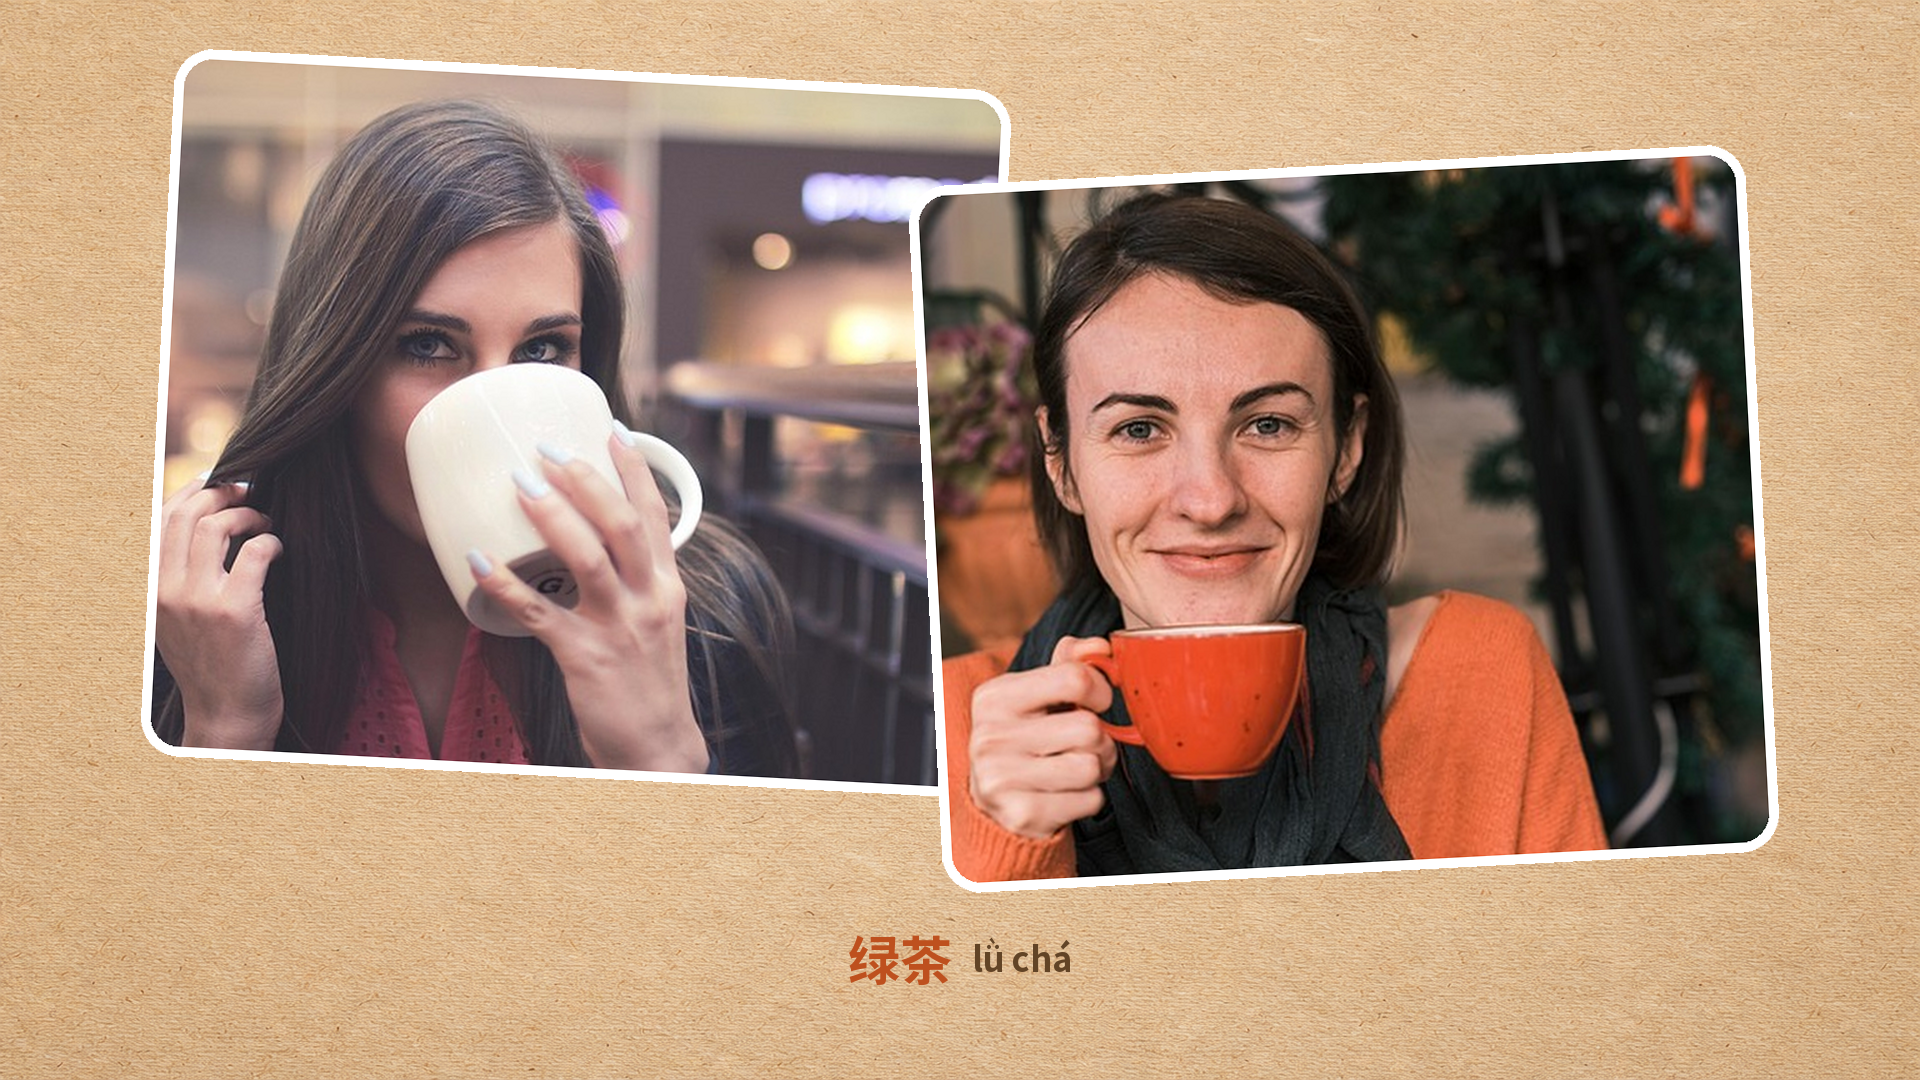
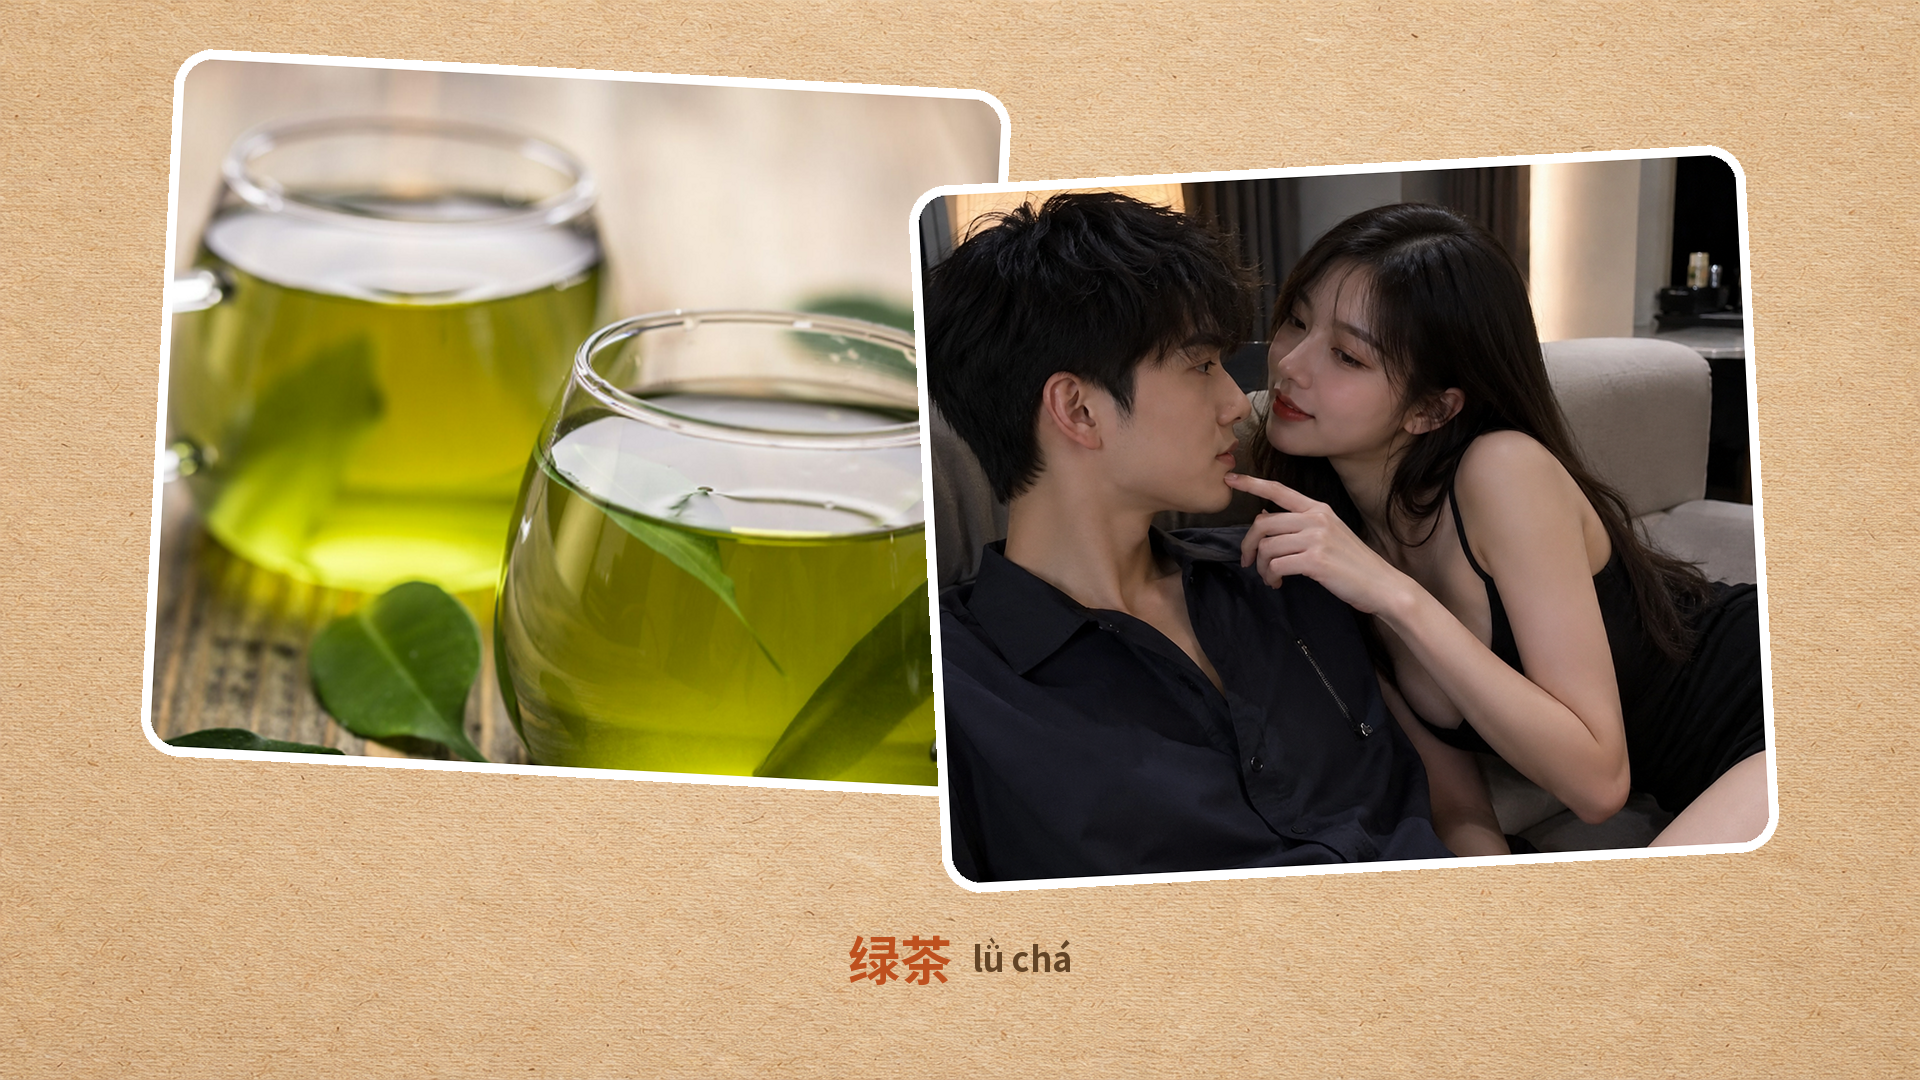
feat(word): ep0002 collage/thumbnail use user-added ref 11(green tea)+12(couple)
- collage_images [1,2] → [11,12]: 본뜻(녹차)+유행어(썸/심기) 이중 의미
- 콜라주 카드·썸네일 재생성

diff --git a/contents/word/card_generator.py b/contents/word/card_generator.py
@@ -626,7 +626,7 @@ EPISODES = [
         "pinyin":  "lǜ chá",
         "desc_en": "sweet but scheming",
         "search_query": "elegant woman drinking tea cafe portrait",
-        "collage_images": [1, 2],
+        "collage_images": [11, 12],
         "emoji":   "🍵",
         "para_labels": [
             "What is 绿茶?",
